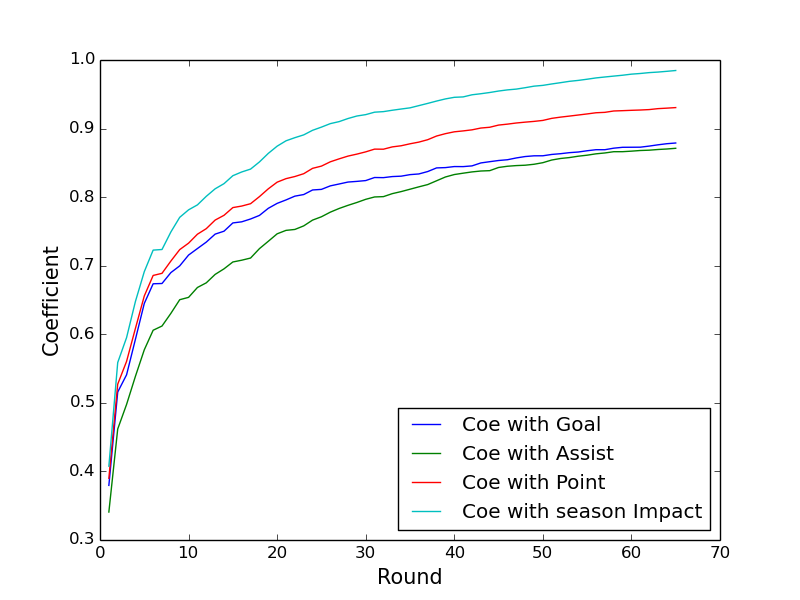
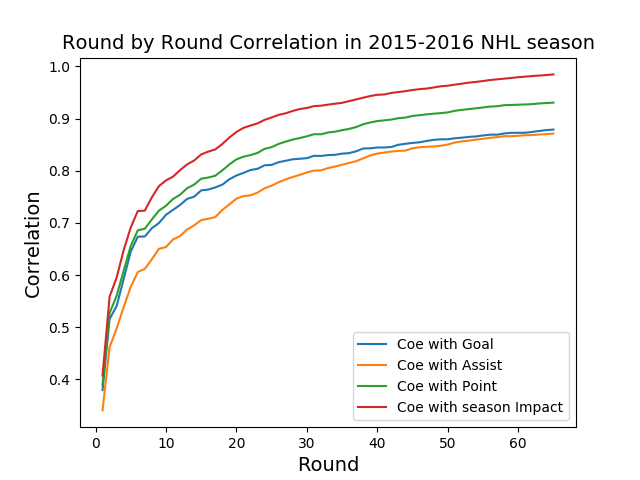
2017-8-16

diff --git a/td_three_prediction_lstm_v_correct_dir/player_ranking_match_by_match_td_lstm_v_correct_cut_together.py b/td_three_prediction_lstm_v_correct_dir/player_ranking_match_by_match_td_lstm_v_correct_cut_together.py
@@ -981,8 +981,9 @@ def draw_round_by_round_coe(coefficient_record):
     plt.plot(rounds, point_coe, label="Coe with Point")
     plt.plot(rounds, value_coe, label="Coe with season Impact")
     plt.legend(loc='lower right')
-    plt.xlabel("Round", fontsize=15)
-    plt.ylabel("Coefficient", fontsize=15)
+    plt.title("Round by Round Correlation in 2015-2016 NHL season", fontsize = 14)
+    plt.xlabel("Round", fontsize=14)
+    plt.ylabel("Correlation", fontsize=14)
     # plt.show()
     plt.savefig("./player_ranking_dir/round_by_round_coe.png")
 
